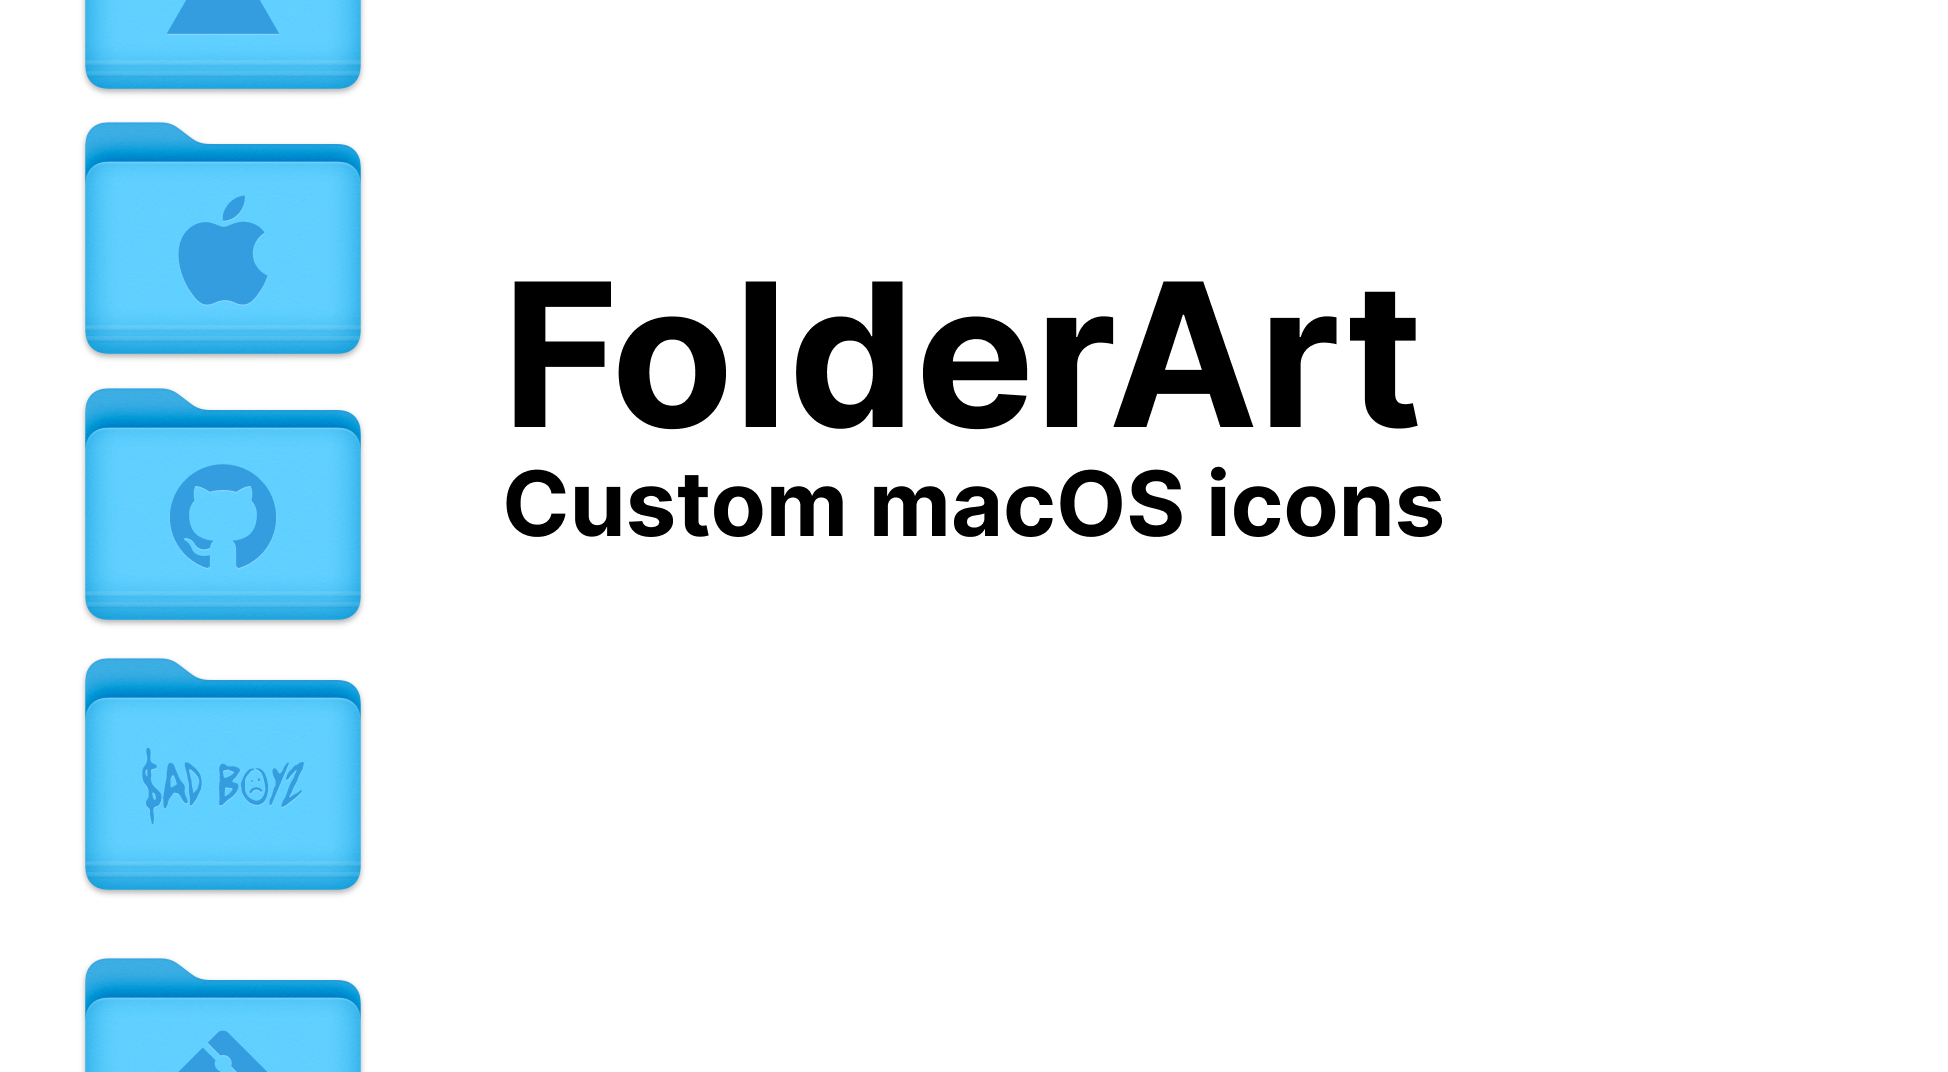
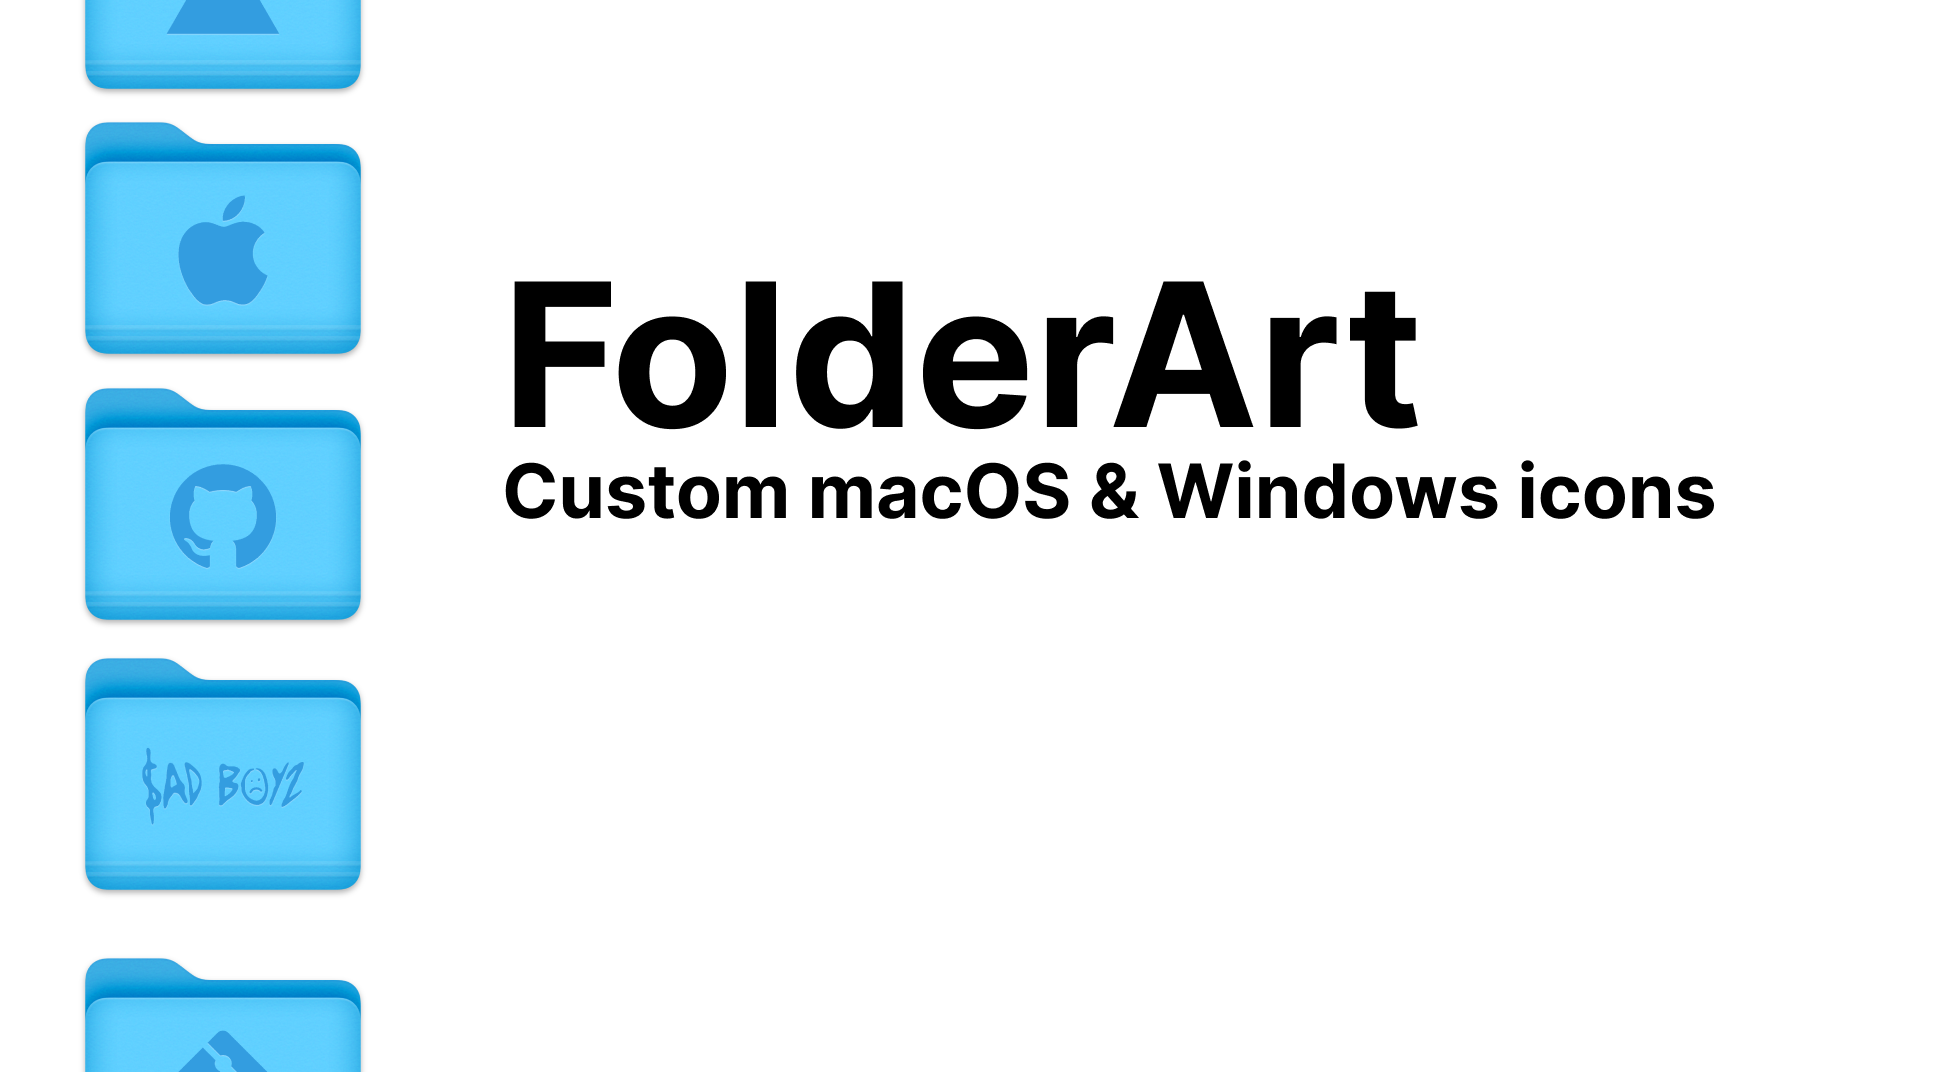
update assets

Changed region(s): [[0.2464, 0.431, 0.8932, 0.5233]]

diff --git a/components/Configuration/Configuration.tsx b/components/Configuration/Configuration.tsx
@@ -36,56 +36,62 @@ export function Configuration({
 
    return (
       <aside
-         className='relative lg:w-96 rounded-xl border border-zinc-200 p-5 flex flex-col gap-5 shadow-sm 
+         className='relative lg:w-96 rounded-xl border border-zinc-200 p-5 flex flex-col gap-5 shadow-sm
          md:h-[calc(100vh_-_40px)] w-full md:w-80'
       >
          <h1 className='font-medium'>Configuration</h1>
 
-         <input
-            type='file'
-            accept='image/*'
-            className='hidden'
-            ref={inputRef}
-            onChange={(e) => {
-               const files = e.target.files
-               const file = files ? files[0] : null
-
-               if (!file) {
-                  return
-               }
-
-               onChangeConfig('icon', file)
-            }}
-         />
-
-         <input
-            className='h-10 border border-zinc-200 rounded-md px-3 py-2 w-full appearance-none'
-            placeholder='Text'
-            value={configuration.text}
-            onChange={(e) => onChangeConfig('text', e.target.value)}
-            maxLength={15}
-         />
-
          <div>
-            <select
-               className='h-10 border border-zinc-200 rounded-md px-3 py-2 w-full appearance-none cursor-pointer mt-2'
-               value={configuration.os}
-               onChange={(e) => {
-                  onChangeConfig('os', e.target.value as Config['os'])
-               }}
-            >
-               {SO.map((so) => {
-                  return (
-                     <option value={so.value} key={so.value}>
-                        {so.label}
-                     </option>
-                  )
-               })}
-            </select>
+            <fieldset className='mt-2'>
+               <legend className='text-sm font-medium flex items-center gap-2'>OS</legend>
+               <div className='flex gap-3 mt-2'>
+                  {SO.map((so) => (
+                     <label
+                        key={so.value}
+                        className={`cursor-pointer p-3 rounded-xl border flex items-center gap-3 transition-all
+            ${
+               configuration.os === so.value
+                  ? 'border-zinc-400 ring-2 ring-zinc-300 bg-zinc-100'
+                  : 'border-zinc-200 hover:bg-zinc-50'
+            }`}
+                     >
+                        <input
+                           type='radio'
+                           name='os'
+                           value={so.value}
+                           checked={configuration.os === so.value}
+                           onChange={() => onChangeConfig('os', so.value as Config['os'])}
+                           className='sr-only'
+                        />
+                        <img src={so.icon} alt={`${so.label} logo`} className='w-6 h-6' />
+                        <span className='text-sm font-medium'>{so.label}</span>
+                     </label>
+                  ))}
+               </div>
+            </fieldset>
          </div>
 
          <div>
+            <label htmlFor='text' className='text-sm font-medium flex items-center gap-2'>
+               Text
+            </label>
+
+            <input
+               id='text'
+               className='h-10 border border-zinc-200 rounded-md px-3 py-2 w-full appearance-none'
+               value={configuration.text}
+               onChange={(e) => onChangeConfig('text', e.target.value)}
+               maxLength={15}
+            />
+         </div>
+
+         <div>
+            <label htmlFor='color' className='text-sm font-medium flex items-center gap-2'>
+               Color
+            </label>
+
             <select
+               id='color'
                className='h-10 border border-zinc-200 rounded-md px-3 py-2 w-full appearance-none cursor-pointer mt-2'
                value={configuration.color}
                onChange={(e) => {
@@ -107,26 +113,33 @@ export function Configuration({
             </p>
          </div>
 
-         <select
-            className='h-10 border border-zinc-200 rounded-md px-3 py-2 w-full appearance-none cursor-pointer'
-            value={configuration.adjustColor}
-            onChange={(e) => {
-               onChangeConfig('adjustColor', Number(e.target.value))
-            }}
-         >
-            <option value={1}>Adjust icon color</option>
-            <option value={0}>Preserve icon color</option>
-         </select>
+         <div>
+            <label htmlFor='adjustColor' className='text-sm font-medium flex items-center gap-2'>
+               Icon Color
+            </label>
+            <select
+               className='h-10 border border-zinc-200 rounded-md px-3 py-2 w-full appearance-none cursor-pointer'
+               value={configuration.adjustColor}
+               onChange={(e) => {
+                  onChangeConfig('adjustColor', Number(e.target.value))
+               }}
+            >
+               <option value={1}>Adapt to Folder Style</option>
+               <option value={0}>Use Original Icon Color</option>
+            </select>
+         </div>
 
-         <ul className='hidden md:grid md:grid-cols-6 lg:grid-cols-7 gap-3'>
+         <ul className='grid md:grid-cols-6 lg:grid-cols-7 gap-1'>
             {defaultIcons.map((icon, i) => {
                const selected = configuration.icon === icon.name
 
                return (
                   <li
                      className={
-                        'w-full p-1 aspect-square cursor-pointer border rounded-md ' +
-                        (selected ? ' border-zinc-200' : 'border-transparent')
+                        'w-full p-2 aspect-square cursor-pointer border rounded-md ' +
+                        (selected
+                           ? 'border-zinc-400 ring-2 ring-zinc-300 bg-zinc-100'
+                           : 'border-transparent hover:bg-zinc-50')
                      }
                      key={i}
                      onClick={() => onChangeConfig('icon', icon.name)}

diff --git a/components/FolderEditor.tsx b/components/FolderEditor.tsx
@@ -114,7 +114,7 @@ export function FolderEditor() {
          <div className='flex flex-col-reverse md:flex-col justify-between items-center relative md:flex-1 md:min-h-[calc(100vh_-_40px)] pt-5 md:pt-0 w-full'>
             <p className='hidden md:block text-sm'>
                <span className='text-zinc-500'> FolderArt / </span> {filename}.
-               {configuration.os === 'windows-11' ? 'png' : 'ico'}
+               {configuration.os === 'mac-os' ? 'png' : 'ico'}
             </p>
 
             <Folder loading={loading} canvasRef={canvasRef} onChangeColor={onChangeColor} />

diff --git a/utils/icons/consts.ts b/utils/icons/consts.ts
@@ -1,13 +1,15 @@
 import { IconConstraints, Color, OS } from './types'
 
-export const SO: { value: OS; label: string }[] = [
+export const SO: { value: OS; label: string; icon: string }[] = [
    {
       value: 'mac-os',
       label: 'macOS',
+      icon: '/apple-logo.svg'
    },
    {
       value: 'windows-11',
       label: 'Windows 11',
+      icon: '/windows-11-logo.svg'
    },
 ]
 
